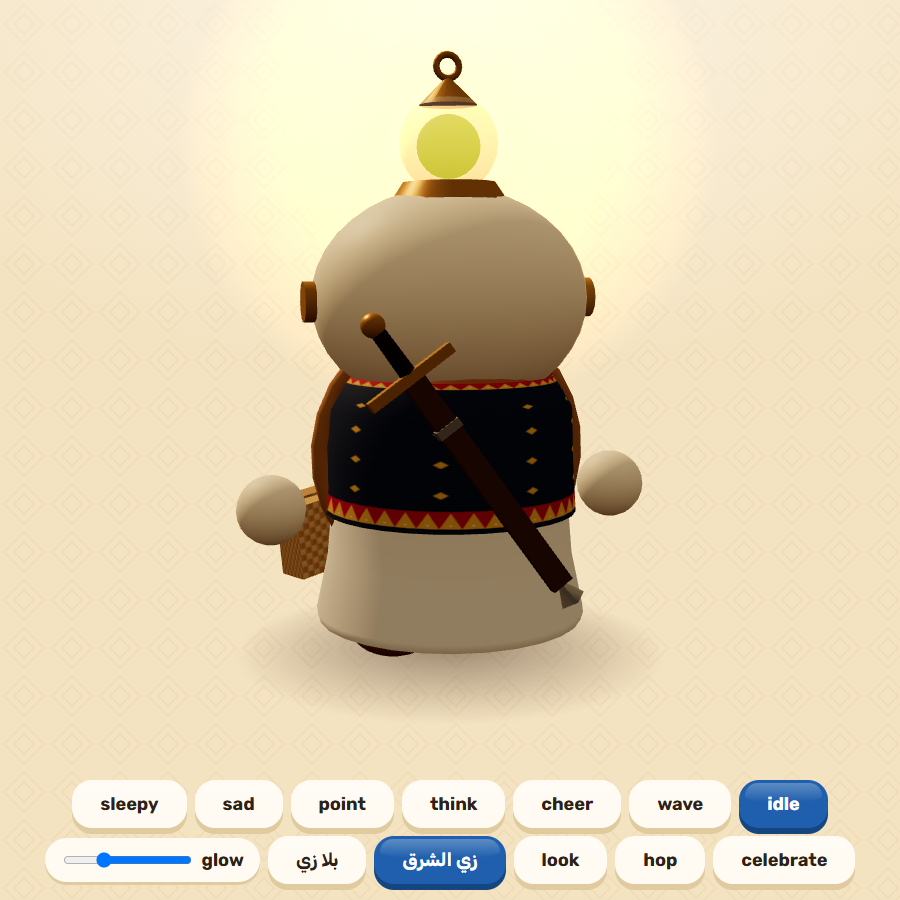
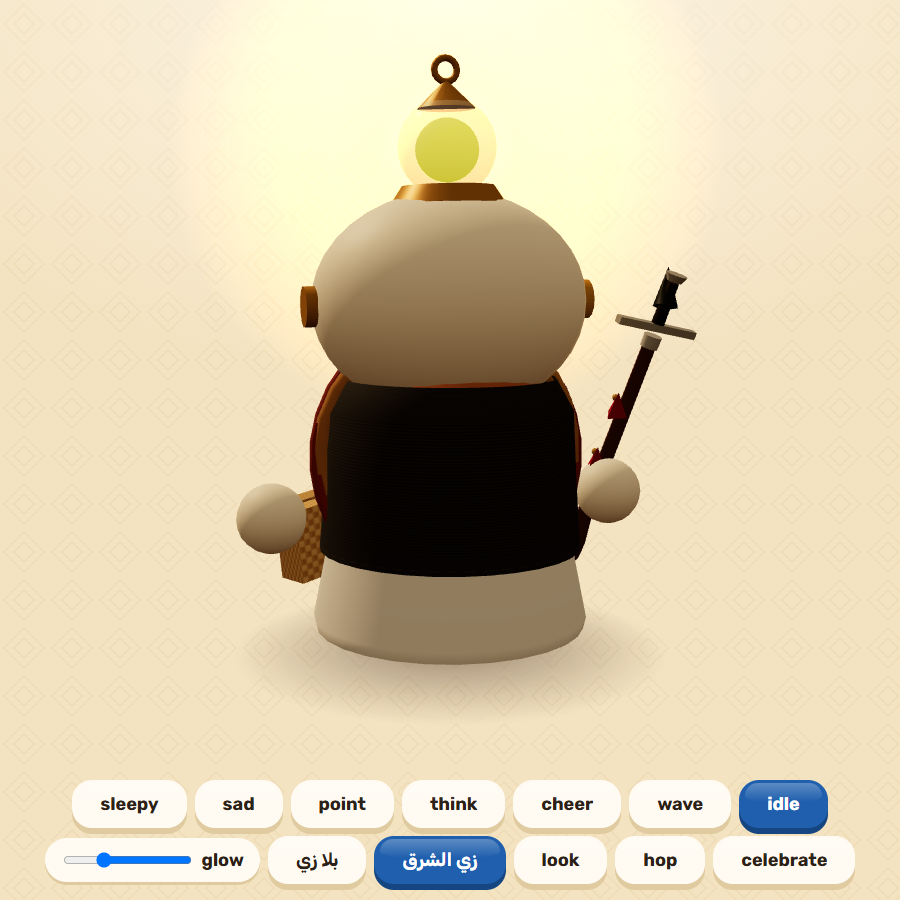
زي سراج البجاوي من صور مرجعية حقيقية
- السديري: قماش داكن سادة مفتوح من الأمام حتى الورك، بأزرار وجيوب، بلا تطريز ملوّن.
- الجلابية: بيضاء طويلة حتى الكاحل.
- السيف: الكسكرة المستقيمة بواقٍ صليبي طويل وشرّابة سوداء، في غمد جلدي يتّسع عند طرفه المعدني،
  عليه تمائم جلدية حمراء. يُحمل قائمًا على الجانب الأيسر من حمّالة جلدية، فيظهر بوضوح من الأمام.
- بلا عمامة: يبقى رأس الفانوس ظاهرًا.
- الزي مدمج في أربع دفعات رسم فقط، وأوامر الرسم في كسلا من ٥٥ إلى ٦٤ من ٨٠.

diff --git a/app/src/three/outfits.tsx b/app/src/three/outfits.tsx
@@ -5,6 +5,7 @@
 // To dress Siraj for a new region: add an entry to OUTFITS and map the world to it in OUTFIT_OF_WORLD.
 import { useMemo } from 'react';
 import * as THREE from 'three';
+import { mergeGeometries } from 'three/examples/jsm/utils/BufferGeometryUtils.js';
 
 export type OutfitId = 'none' | 'east';
 
@@ -20,32 +21,20 @@ export const COVERS_BODY: Record<OutfitId, boolean> = { none: false, east: true 
 
 // ---------- textures ----------
 let sideiriTex: THREE.CanvasTexture | null = null;
-/** Eastern sideiri: deep indigo cloth with gold and red geometric embroidery along the hem and the front edges. */
+/** Beja sideiri (from reference photos of Beja men in eastern Sudan): plain dark cloth, no coloured embroidery,
+ *  only tone-on-tone stitching along the edges and the hem. */
 function sideiriTexture() {
   if (sideiriTex) return sideiriTex;
   const c = document.createElement('canvas'); c.width = 512; c.height = 256; const g = c.getContext('2d')!;
-  g.fillStyle = '#1F2B4A'; g.fillRect(0, 0, 512, 256);
-  // fine woven texture
-  g.globalAlpha = 0.08; g.fillStyle = '#ffffff';
-  for (let y = 0; y < 256; y += 4) g.fillRect(0, y, 512, 1);
+  g.fillStyle = '#2E2925'; g.fillRect(0, 0, 512, 256);
+  g.globalAlpha = 0.06; g.fillStyle = '#ffffff';
+  for (let y = 0; y < 256; y += 3) g.fillRect(0, y, 512, 1);
   g.globalAlpha = 1;
-  // embroidery band along the hem (bottom of the texture = bottom of the vest)
-  const band = (y: number, h: number) => {
-    g.fillStyle = '#C9302C'; g.fillRect(0, y, 512, h);
-    g.fillStyle = '#E8B83C';
-    for (let x = 0; x < 512; x += 16) { g.beginPath(); g.moveTo(x, y + h); g.lineTo(x + 8, y + 2); g.lineTo(x + 16, y + h); g.closePath(); g.fill(); }
-    g.fillStyle = '#F4E6C2'; for (let x = 8; x < 512; x += 16) g.fillRect(x - 1, y + h - 6, 2, 2);
-  };
-  band(222, 26);
-  band(0, 14);
-  // embroidered panels down both front edges (texture edges = the open front)
-  for (const x0 of [0, 488]) {
-    g.fillStyle = '#C9302C'; g.fillRect(x0, 0, 24, 256);
-    g.fillStyle = '#E8B83C'; for (let y = 6; y < 256; y += 18) { g.beginPath(); g.moveTo(x0 + 12, y); g.lineTo(x0 + 20, y + 8); g.lineTo(x0 + 12, y + 16); g.lineTo(x0 + 4, y + 8); g.closePath(); g.fill(); }
-  }
-  // scattered small motifs on the back
-  g.fillStyle = '#E8B83C';
-  for (let y = 60; y < 200; y += 46) for (let x = 120; x < 400; x += 70) { g.save(); g.translate(x + (y % 92 ? 35 : 0), y); g.rotate(Math.PI / 4); g.fillRect(-4, -4, 8, 8); g.restore(); }
+  // tone-on-tone stitched piping along the hem and both front edges
+  g.strokeStyle = '#4A423B'; g.lineWidth = 3; g.setLineDash([7, 5]);
+  g.beginPath(); g.moveTo(0, 240); g.lineTo(512, 240); g.stroke();
+  g.beginPath(); g.moveTo(12, 0); g.lineTo(12, 256); g.moveTo(500, 0); g.lineTo(500, 256); g.stroke();
+  g.setLineDash([]);
   sideiriTex = new THREE.CanvasTexture(c); sideiriTex.colorSpace = THREE.SRGBColorSpace; sideiriTex.anisotropy = 4;
   return sideiriTex;
 }
@@ -54,37 +43,74 @@ const lathe = (pts: [number, number][], seg = 28, phiStart = 0, phiLength = Math
   // profile points are listed top -> bottom; the lathe needs them bottom -> top for outward-facing surfaces
   new THREE.LatheGeometry([...pts].reverse().map(([r, y]) => new THREE.Vector2(r, y)), seg, phiStart, phiLength);
 
-/** Eastern Sudan: white jalabiya, embroidered eastern sideiri open at the front, a straight sword in its leather
- *  sheath carried on the back over the right shoulder. No turban, so the lantern head stays fully visible. */
+// ---------- merged, vertex-coloured parts (each outfit costs only a few draw calls) ----------
+function tint(g: THREE.BufferGeometry, color: string) {
+  const c = new THREE.Color(color), n = g.attributes.position.count, a = new Float32Array(n * 3);
+  for (let i = 0; i < n; i++) a.set([c.r, c.g, c.b], i * 3);
+  g.setAttribute('color', new THREE.BufferAttribute(a, 3));
+  if (g.attributes.uv) g.deleteAttribute('uv');
+  return g.index ? g.toNonIndexed() : g;
+}
+const at = (g: THREE.BufferGeometry, x: number, y: number, z: number, rx = 0, ry = 0, rz = 0) => {
+  g.applyMatrix4(new THREE.Matrix4().compose(new THREE.Vector3(x, y, z), new THREE.Quaternion().setFromEuler(new THREE.Euler(rx, ry, rz)), new THREE.Vector3(1, 1, 1)));
+  return g;
+};
+
+/** The Beja kaskara as ONE geometry: long straight blade in a leather scabbard widening toward its metal-capped tip,
+ *  red leather amulets, a long straight cross guard, leather-wrapped grip and a black tassel. */
+function kaskaraGeometry() {
+  const pts: [number, number][] = [[0.032, 0.5], [0.034, 0.1], [0.036, -0.25], [0.055, -0.4], [0.05, -0.47], [0.012, -0.52]];
+  const scab = new THREE.LatheGeometry(pts.reverse().map(([r, y]) => new THREE.Vector2(r, y)), 10); scab.scale(1, 1, 0.42);
+  const parts = [
+    tint(scab, '#7A4A2A'),
+    tint(at(new THREE.ConeGeometry(0.03, 0.08, 6), 0, -0.55, 0, Math.PI), '#D9D6CF'),
+    tint(at(new THREE.CylinderGeometry(0.038, 0.036, 0.05, 10), 0, 0.5, 0), '#D9D6CF'),
+    ...[0.22, -0.02].flatMap(y => [
+      tint(at(new THREE.ConeGeometry(0.05, 0.1, 3), 0.045, y, 0, 0, 0, -0.2), '#B8322A'),
+      tint(at(new THREE.SphereGeometry(0.014, 8, 6), 0.045, y + 0.02, 0.022), '#E2A43C'),
+    ]),
+    tint(at(new THREE.BoxGeometry(0.36, 0.03, 0.035), 0, 0.56, 0), '#C9C6BF'),
+    tint(at(new THREE.CylinderGeometry(0.022, 0.026, 0.17, 8), 0, 0.66, 0), '#2E1E14'),
+    tint(at(new THREE.CylinderGeometry(0.045, 0.03, 0.03, 10), 0, 0.765, 0), '#C9C6BF'),
+    tint(at(new THREE.ConeGeometry(0.05, 0.16, 7), 0, 0.72, 0.03, 0.5), '#141414'),
+  ];
+  return mergeGeometries(parts)!;
+}
+
+/** Eastern Sudan (Beja), from reference photos: long white jalabiya, plain dark sideiri open at the front and falling to
+ *  the hips, with side pockets and a few buttons; the kaskara slung from a leather baldric across the chest, carried
+ *  upright at the left side. No turban: the lantern head stays fully visible. */
 function EastOutfit() {
-  const g = useMemo(() => ({
-    jalabiya: lathe([[0.2, 1.03], [0.33, 0.96], [0.405, 0.82], [0.41, 0.6], [0.43, 0.36], [0.47, 0.17], [0.46, 0.14]]),
-    collar: lathe([[0.2, 1.03], [0.205, 1.06], [0.18, 1.07]]),
-    // sideiri: open at the front (a gap of ~0.9 rad centred on +z)
-    sideiri: lathe([[0.36, 0.99], [0.425, 0.88], [0.43, 0.7], [0.44, 0.52]], 28, 0.45, Math.PI * 2 - 0.9),
-  }), []);
+  const g = useMemo(() => {
+    const edge = (y: number) => { const a = -0.35, r = 0.445; return [Math.sin(a) * r, y, Math.cos(a) * r] as const; };
+    // white robe + collar, and the small dark details (buttons, pockets) + the leather baldric, each merged
+    const robe = mergeGeometries([
+      tint(lathe([[0.2, 1.03], [0.33, 0.96], [0.405, 0.82], [0.415, 0.6], [0.44, 0.36], [0.48, 0.16], [0.47, 0.12]]), '#F7F4EC'),
+      tint(lathe([[0.2, 1.03], [0.205, 1.06], [0.18, 1.07]]), '#F7F4EC'),
+    ])!;
+    const details = mergeGeometries([
+      ...[0.86, 0.74, 0.62].map(y => tint(at(new THREE.SphereGeometry(0.018, 8, 6), ...edge(y)), '#8C7A62')),
+      ...[-1, 1].map(sd => tint(at(new THREE.BoxGeometry(0.15, 0.12, 0.01), Math.sin(0.95 * sd) * 0.455, 0.53, Math.cos(0.95 * sd) * 0.455, 0, 0.95 * sd), '#25211E')),
+      tint(at(new THREE.TorusGeometry(0.475, 0.022, 6, 32), 0, 0.72, 0, 0.1, 0, -0.85), '#8E3B24'),
+    ])!;
+    return {
+      robe, details, sword: kaskaraGeometry(),
+      // sideiri: open at the front (a gap of ~0.7 rad centred on +z), down to the hips
+      sideiri: lathe([[0.37, 0.99], [0.43, 0.88], [0.44, 0.66], [0.452, 0.46], [0.458, 0.4]], 28, 0.35, Math.PI * 2 - 0.7),
+    };
+  }, []);
   const m = useMemo(() => ({
-    white: new THREE.MeshStandardMaterial({ color: '#F7F4EC', roughness: 0.75 }),
-    vest: new THREE.MeshStandardMaterial({ map: sideiriTexture(), roughness: 0.7, side: THREE.DoubleSide }),
-    leather: new THREE.MeshStandardMaterial({ color: '#5A3A22', roughness: 0.6 }),
-    grip: new THREE.MeshStandardMaterial({ color: '#2E1E14', roughness: 0.7 }),
-    silver: new THREE.MeshStandardMaterial({ color: '#D9D6CF', roughness: 0.3, metalness: 0.7 }),
-    brass: new THREE.MeshStandardMaterial({ color: '#E2A43C', roughness: 0.35, metalness: 0.5 }),
+    cloth: new THREE.MeshStandardMaterial({ vertexColors: true, roughness: 0.75 }),
+    metal: new THREE.MeshStandardMaterial({ vertexColors: true, roughness: 0.45, metalness: 0.35 }),
+    vest: new THREE.MeshStandardMaterial({ map: sideiriTexture(), roughness: 0.8, side: THREE.DoubleSide }),
   }), []);
   return (
     <group>
-      <mesh geometry={g.jalabiya} material={m.white} />
-      <mesh geometry={g.collar} material={m.white} />
+      <mesh geometry={g.robe} material={m.cloth} />
       <mesh geometry={g.sideiri} material={m.vest} />
-      {/* sword on the back: sheath runs from behind the left hip up over the right shoulder, hilt above it */}
-      <group position={[0.02, 0.72, -0.44]} rotation={[0.08, 0, -0.62]}>
-        <mesh material={m.leather} position-y={-0.05}><boxGeometry args={[0.075, 0.82, 0.04]} /></mesh>
-        <mesh material={m.silver} position-y={-0.48}><coneGeometry args={[0.045, 0.09, 4]} /></mesh>
-        <mesh material={m.silver} position-y={0.17}><boxGeometry args={[0.085, 0.03, 0.05]} /></mesh>
-        <mesh material={m.brass} position-y={0.37}><boxGeometry args={[0.32, 0.035, 0.05]} /></mesh>
-        <mesh material={m.grip} position-y={0.47}><cylinderGeometry args={[0.025, 0.028, 0.17, 8]} /></mesh>
-        <mesh material={m.brass} position-y={0.57}><sphereGeometry args={[0.04, 10, 8]} /></mesh>
-      </group>
+      <mesh geometry={g.details} material={m.cloth} />
+      {/* the kaskara carried upright at the LEFT side: hilt and guard clear of the head, plainly visible from the front */}
+      <mesh geometry={g.sword} material={m.metal} position={[-0.62, 0.68, 0.06]} rotation={[-0.32, 0.1, 0.24]} scale={0.92} />
     </group>
   );
 }

diff --git a/docs/phase3/PHASE3_PROPOSAL.md b/docs/phase3/PHASE3_PROPOSAL.md
@@ -1,0 +1,97 @@
+# مقترح المرحلة الثالثة: الهيكل التقني
+
+التاريخ: ١٨ نوفمبر ٢٠٢٦
+الحالة: **مقترح ينتظر موافقتك**. لن أكتب كود هذه المرحلة قبل الموافقة.
+
+بحسب خارطة المراحل في المخطّط الرئيسي، فهذه المرحلة: البناء، وقارئ المحتوى، والحفظ والترحيل، والعمل بدون إنترنت.
+**بوابتها:** يعمل بدون إنترنت على هاتف حقيقي، ويحترم ميزانية الأداء.
+
+---
+
+## أولًا: أين نقف اليوم
+
+| الجانب | الوضع الحالي | المشكلة |
+|---|---|---|
+| حفظ التقدّم | رقم واحد لكل عالم في ذاكرة المتصفح البسيطة | لا يعرف أي مهارة أتقنها الطفل، ولا موعد مراجعتها، ولا يوجد نظام نسخ للبيانات. أي تغيير قادم في شكلها قد يمسح تقدّم الأطفال |
+| المحتوى | ملفات المهارات مدمجة داخل كود التطبيق | كل منهج جديد يكبّر التطبيق كله، ويُنزَّل حتى لو لم يحتجه الطفل |
+| العمل بدون إنترنت | التطبيق نفسه يعمل بدون إنترنت | لا تنزيل ولا حذف لكل عالم على حدة، ولا طريقة آمنة لتحديث التطبيق |
+| التجربة على الهاتف | على شبكة البيت فقط، وبلا رابط آمن | العمل بدون إنترنت والتثبيت على الهاتف يحتاجان رابطًا آمنًا منشورًا |
+| ميزانية الأداء | تُقاس يدويًا في كل جولة | لا شيء يمنع تجاوزها تلقائيًا |
+
+---
+
+## ثانيًا: التسليمات
+
+### ١. الحفظ والترحيل، وهو الأهم
+- **قاعدة بيانات داخل الجهاز** بدل الذاكرة البسيطة، لكل طفل على حدة:
+  - حالة كل مهارة: لم تبدأ، أو يتعلّمها، أو أتقنها، أو ثبّتها بالمراجعة.
+  - موعد مراجعتها القادمة.
+  - سجل رحلة اليوم.
+- **بيوت الشارع تُحسب من الإتقان الحقيقي**، لا من عدّاد تجريبي. والمرحلة الرابعة للبيت، شجرة المراجعة، تصبح ممكنة.
+- **ترقيم لشكل البيانات مع ترحيل تلقائي:** كل تحديث للتطبيق يحوّل بيانات الأطفال القديمة إلى الشكل الجديد دون أن يضيع شيء. أول ترحيل ينقل التقدّم الموجود الآن.
+- **طلب حفظ دائم من المتصفح** حتى لا يمسح بيانات الأطفال عند امتلاء الجهاز.
+- **نسخة احتياطية من ركن الأهل:** حفظ ملف بتقدّم الأطفال، واسترجاعه على نفس الجهاز أو جهاز آخر.
+- **استرداد آمن:** إن تلفت البيانات يرجع التطبيق لآخر نسخة سليمة بدل أن يتوقّف.
+
+### ٢. قارئ المحتوى
+- **حزم المحتوى:** تُجمَّع ملفات المنهج وقت البناء في حزم صغيرة، حزمة لكل عالم ولكل صف، وتُنزَّل عند الحاجة فقط. لا تدخل كود التطبيق.
+- **الفحص وقت البناء:** كل حزمة تُفحص بالمخططات الموجودة، فلا يصل للطفل محتوى ناقص أو خاطئ.
+- **قارئ موحّد** يطلب منه التطبيق العالم والمهارة والدرس.
+- **مشغّل دروس مبدئي** يقرأ درسًا من ملفه، ويمرّ بخطواته، ويسجّل النتيجة في قاعدة البيانات، ثم يبني البيت. الغرض إثبات أن السلسلة كلها تعمل من البداية للنهاية. قوالب الأنشطة الحقيقية في المرحلة السادسة.
+
+### ٣. العمل بدون إنترنت
+- **قشرة التطبيق:** تُحفظ في الجهاز من أول فتح، كما الآن.
+- **حزم العوالم:** تُنزَّل عالمًا عالمًا، مع شريط تقدّم، ويمكن حذف عالم مكتمل من ركن الأهل ثم تنزيله لاحقًا، كما في المقترح السابق.
+- **التحديث الآمن:** حين تتوفّر نسخة جديدة، يظهر تنبيه في ركن الأهل فقط، ويُطبّق التحديث عند الفتح التالي دون فقد أي تقدّم.
+
+### ٤. خط البناء والنشر
+- **أمر واحد** ينفّذ بالترتيب: فحص المحتوى، ثم تجميع الحزم، ثم بناء التطبيق، ثم كل الفحوص الآلية. إن فشل أي فحص يتوقّف ولا يُنشر شيء.
+- **رقم إصدار** للتطبيق وللمحتوى يظهر في ركن الأهل.
+- **النشر على رابط آمن** من مستودعك على جت هب، حتى تجرّب على هاتفك من أي مكان، وتعمل ميزة بدون إنترنت والتثبيت.
+
+### ٥. حراسة الأداء آليًا
+يفشل البناء تلقائيًا إذا تجاوز أيٌّ من الحدود:
+
+| الحد | المقدار |
+|---|---|
+| أوامر الرسم | ٨٠ |
+| المثلثات على الفئة المنخفضة | ١٥٠ ألفًا |
+| كود التطبيق مضغوطًا | ٦٠٠ كيلوبايت |
+| حزمة العالم | ٦ ميغابايت |
+
+### ٦. المتانة
+- **شاشة لطيفة من سراج** بدل الشاشة البيضاء إن حدث خطأ.
+- **استعادة الرسم ثلاثي الأبعاد** إن فقده الهاتف، وهذا يحدث على الهواتف الضعيفة.
+- **تنبيه للأهل** عند امتلاء مساحة الجهاز.
+- **سجل أخطاء محلي** يراه الأهل، ولا يُرسل لأي جهة.
+
+---
+
+## ثالثًا: بوابة القبول
+
+| الشرط | كيف يُتحقّق منه |
+|---|---|
+| يعمل بالكامل بدون إنترنت على هاتفك، بعد تنزيل عالم كسلا | تجربتك من الرابط المنشور |
+| تقدّم الأطفال الحالي ينتقل للشكل الجديد كاملًا | فحص آلي للترحيل، وتجربتك |
+| النسخة الاحتياطية تُسترجع على جهاز آخر | فحص آلي، وتجربتك |
+| التحديث لا يمسح أي تقدّم | فحص آلي ينشر نسختين متتاليتين |
+| حدود الأداء محروسة | فحوص تفشل البناء عند التجاوز |
+| مشغّل الدروس المبدئي يبني بيتًا من درس حقيقي | فحص آلي، وتجربتك |
+
+---
+
+## رابعًا: ما لن تحتويه هذه المرحلة
+- **قوالب الأنشطة ونظام الإتقان بقواعده الكاملة:** في المرحلة السادسة. هنا أبني شكل البيانات الذي ستستعمله فقط.
+- **الصوت:** في المرحلة الرابعة.
+- **باقي العوالم ثلاثية الأبعاد:** في المرحلة الخامسة.
+
+---
+
+## خامسًا: قرارات أحتاجها منك
+
+1. **النشر:** هل أنشر التطبيق على رابط عام من مستودعك على جت هب؟
+   - الرابط سيكون عامًا، لكن بيانات الأسرة فيه مشفّرة بكودها، كما في النسخة السابقة.
+   - النشر يحتاج رفع الفرع، وأحتاج منك تسجيل الدخول إلى جت هب مرة واحدة إن لم يكن مسجّلًا.
+   - **توصيتي:** نعم، فهو الطريق الوحيد لتجربة العمل بدون إنترنت والتثبيت على هاتفك.
+2. **شكل بيانات الإتقان:** هل توافق أن أبنيه الآن بحالاته الأربع وموعد المراجعة، بينما تأتي قواعد الانتقال بين الحالات في المرحلة السادسة؟ هذه توصيتي، لأن تغيير شكل البيانات لاحقًا أصعب من تغيير القواعد.
+3. **رفع العمل الحالي:** المرحلتان الأولى والثانية محفوظتان في المستودع على جهازك، في فرع إعادة البناء، ولم تُرفعا بعد إلى جت هب. هل أرفعهما الآن؟
